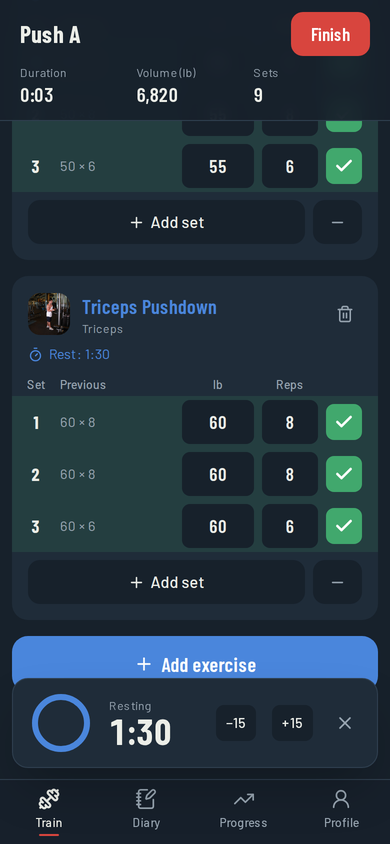
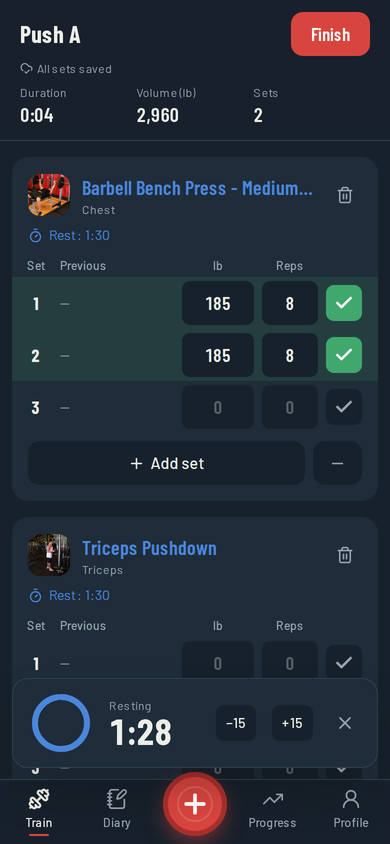
Animate Progress charts and update README

diff --git a/src/app/(app)/progress/page.tsx b/src/app/(app)/progress/page.tsx
@@ -124,7 +124,7 @@ export default async function ProgressPage() {
 
 function Card({ title, subtitle, children }: { title: string; subtitle: string; children: React.ReactNode }) {
   return (
-    <section className="mx-5 mb-4 rounded-2xl bg-rack-raised p-5">
+    <section className="animate-rise mx-5 mb-4 rounded-2xl bg-rack-raised p-5">
       <h2 className="font-display text-2xl font-semibold">{title}</h2>
       <p className="mb-4 text-sm text-chalk-muted">{subtitle}</p>
       {children}

diff --git a/README.md b/README.md
@@ -6,9 +6,13 @@ training and eating work from the same numbers.
 
 [Live demo](https://calorness.vercel.app). Try it with the demo account, no sign-up needed
 
-| Train | Live workout | Workout summary | Progress |
+| Quick log | AI meal photo | Live workout | Diary |
 | --- | --- | --- | --- |
-| ![Train tab with weekly plates](docs/screenshots/train.png) | ![Live workout logger with rest timer](docs/screenshots/workout.png) | ![Workout summary with personal records](docs/screenshots/summary.png) | ![Muscle map and weekly volume](docs/screenshots/progress.png) |
+| ![Quick log hub](docs/screenshots/quick-log.png) | ![AI estimate review](docs/screenshots/ai-review.png) | ![Live workout logger with autosave and rest timer](docs/screenshots/workout.png) | ![Diary with calorie ring](docs/screenshots/diary.png) |
+
+| Train | Workout summary | Progress |
+| --- | --- | --- |
+| ![Train tab with weekly plates](docs/screenshots/train.png) | ![Workout summary with personal records](docs/screenshots/summary.png) | ![Muscle map and weekly volume](docs/screenshots/progress.png) |
 
 | Food diary | Adding a food | Barcode scanner | Exercise detail |
 | --- | --- | --- | --- |
@@ -25,10 +29,20 @@ tracking that shares data with training.
 
 ## Features
 
+**Quick log (the center + button)**
+- Snap a photo of a meal and Claude (Anthropic's AI) lists each food with calories and macros to review before saving
+- Describe a meal in words, or say it out loud with speech-to-text
+- Barcode scan and one-tap "log again" for recent foods, with Undo
+- Picks the meal from the time of day, shows calories and protein left, and starts your next routine in one tap
+- Home-screen shortcuts on Android (long-press the icon): Snap, Scan, Describe, Train
+
 **Training (Hevy-style)**
 - Exercise library of 876 exercises with photos, instructions, and muscle groups, searchable and filterable
 - Routine builder: sets, rep ranges, and rest time per exercise
-- Live workout logger: previous-session values on every set, warm-up/drop/failure sets, autosave if the app closes mid-workout
+- Live workout logger: previous-session values on every set, warm-up/drop/failure sets
+- Autosaves every set to the phone instantly and to the server within seconds, so closing the app or switching phones loses nothing; the rest timer survives too
+- Keeps the screen awake during a workout, with haptic feedback on supported phones
+- Edit a finished workout's sets, or reopen one you ended too early
 - Rest timer that starts when you check off a set, with ±15s and vibration
 - Automatic personal records: heaviest weight, best estimated 1RM, best set volume
 - Exercise pages with your history and an estimated-1RM progress chart
@@ -48,6 +62,10 @@ tracking that shares data with training.
 - Training-day callout in the diary when you worked out, linking to that workout
 - Calorie and macro targets calculated from your stats (Mifflin–St Jeor + activity level + goal)
 
+**Feel**
+- Motion throughout: count-up numbers, a calorie ring that draws in, bars and charts that grow, cards that rise in, page crossfades (React View Transitions), and a burst of tiny bumper plates when you finish a workout
+- Everything respects the phone's "reduce motion" setting
+
 **General**
 - Sign in with GitHub, Google, or a shared demo account
 - Pounds/feet or kilograms/centimeters
@@ -62,6 +80,8 @@ tracking that shares data with training.
 - [ ] Custom exercises and supersets in the logger
 - [ ] Training-aware nutrition: targets that adapt to training volume and weight trend
 - [ ] Time zone setting (dates currently display in US Eastern)
+- [x] Quick log hub, AI photo/describe logging, workout autosave and editing
+- [ ] Apple Health / Google Fit sync and a true home-screen widget (needs a native app)
 - [ ] Offline logging in the gym
 
 ## Tech stack
@@ -75,6 +95,7 @@ tracking that shares data with training.
 | Auth | NextAuth (Auth.js) with GitHub/Google OAuth |
 | Validation | Zod |
 | Charts | Hand-built SVG components (no chart library) |
+| AI | Claude API (vision + tool use for structured output) |
 | Testing | Vitest |
 | CI/CD | GitHub Actions, deployed on Vercel |
 
@@ -104,6 +125,7 @@ src/
     db.ts              Prisma client
     training.ts        Training queries: workouts, previous sets, records, progress
     nutrition/         Food APIs (USDA, Open Food Facts), normalizing their data, diary queries
+    ai/                Claude meal estimation and response validation
     fitness/           Pure, tested logic: 1RM, volume, PRs, BMR/TDEE, macros, units, muscles, dates
 ```
 
